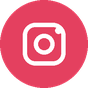
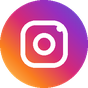
移除三色線壓低卡高;IG改漸層官方樣式;地圖改紅色大頭針

diff --git a/index.html b/index.html
@@ -294,48 +294,6 @@
             "size": "120px",
             "aspectRatio": "691:139",
             "align": "start"
-          },
-          {
-            "type": "box",
-            "layout": "horizontal",
-            "height": "4px",
-            "cornerRadius": "2px",
-            "margin": "md",
-            "contents": [
-              {
-                "type": "box",
-                "layout": "vertical",
-                "flex": 1,
-                "backgroundColor": "#008ED8",
-                "contents": [
-                  {
-                    "type": "filler"
-                  }
-                ]
-              },
-              {
-                "type": "box",
-                "layout": "vertical",
-                "flex": 1,
-                "backgroundColor": "#FCCC27",
-                "contents": [
-                  {
-                    "type": "filler"
-                  }
-                ]
-              },
-              {
-                "type": "box",
-                "layout": "vertical",
-                "flex": 1,
-                "backgroundColor": "#00A452",
-                "contents": [
-                  {
-                    "type": "filler"
-                  }
-                ]
-              }
-            ]
           }
         ]
       }
@@ -356,48 +314,6 @@
             "size": "120px",
             "aspectRatio": "691:139",
             "align": "start"
-          },
-          {
-            "type": "box",
-            "layout": "horizontal",
-            "height": "4px",
-            "cornerRadius": "2px",
-            "margin": "md",
-            "contents": [
-              {
-                "type": "box",
-                "layout": "vertical",
-                "flex": 1,
-                "backgroundColor": "#008ED8",
-                "contents": [
-                  {
-                    "type": "filler"
-                  }
-                ]
-              },
-              {
-                "type": "box",
-                "layout": "vertical",
-                "flex": 1,
-                "backgroundColor": "#FCCC27",
-                "contents": [
-                  {
-                    "type": "filler"
-                  }
-                ]
-              },
-              {
-                "type": "box",
-                "layout": "vertical",
-                "flex": 1,
-                "backgroundColor": "#00A452",
-                "contents": [
-                  {
-                    "type": "filler"
-                  }
-                ]
-              }
-            ]
           }
         ]
       },
